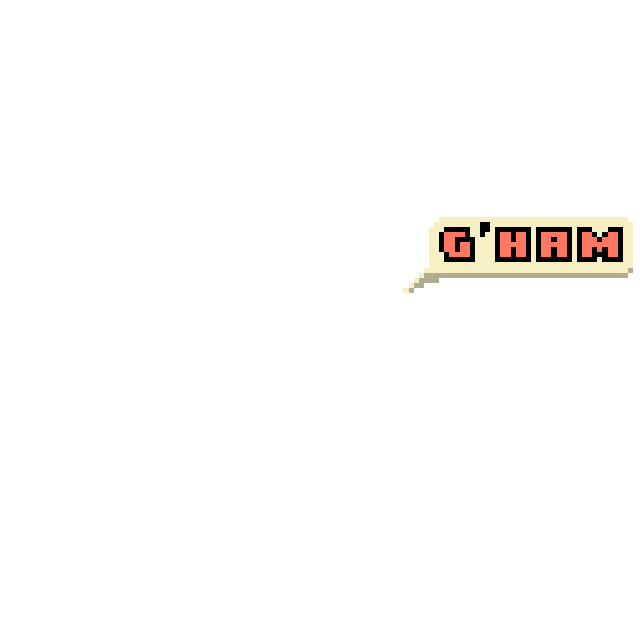
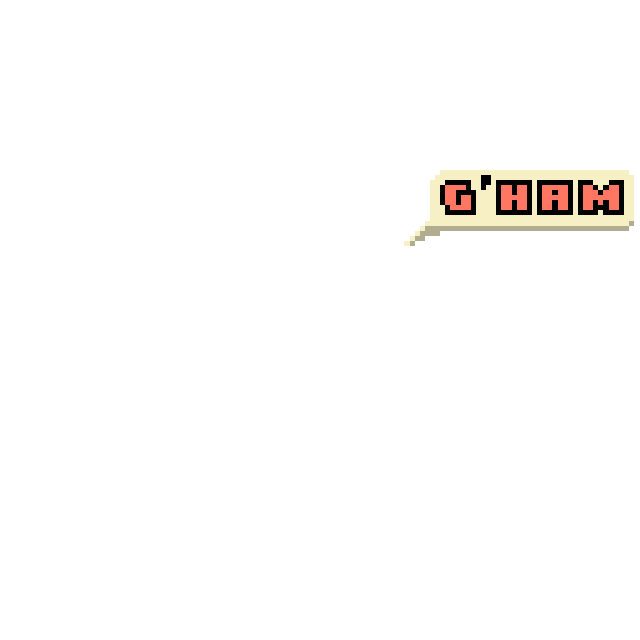
add gm

Changed region(s): [[0.625, 0.25, 1.0, 0.4688]]

diff --git a/app/drip/page.tsx b/app/drip/page.tsx
@@ -23,6 +23,7 @@ export default function DripNftViewer() {
   const [error, setError] = useState('')
   const [imageUrl, setImageUrl] = useState('')
   const [useHamHat, setUseHamHat] = useState(false)
+  const [useGham, setUseGham] = useState(false)
   const canvasRef = useRef<HTMLCanvasElement>(null)
   const [selectedBackground, setSelectedBackground] = useState('Green');
 
@@ -60,7 +61,7 @@ export default function DripNftViewer() {
     if (Object.keys(traits).length > 0) {
       generateImage()
     }
-  }, [traits, useHamHat, selectedBackground])
+  }, [traits, useHamHat, useGham, selectedBackground])
 
   const generateImage = async () => {
     const canvas = canvasRef.current
@@ -97,6 +98,11 @@ export default function DripNftViewer() {
       await drawImage(ctx, '/traits/Hat/Ham hat.png')
     }
 
+    // Add the G'ham layer if useGham is true
+    if (useGham) {
+      await drawImage(ctx, '/traits/top/gham.png')
+    }
+
     // Convert canvas to image URL
     const imageUrl = canvas.toDataURL('image/png')
     setImageUrl(imageUrl)
@@ -116,6 +122,10 @@ export default function DripNftViewer() {
 
   const toggleHamHat = () => {
     setUseHamHat(!useHamHat)
+  }
+
+  const toggleGham = () => {
+    setUseGham(!useGham)
   }
 
   const downloadPng = () => {
@@ -279,6 +289,12 @@ export default function DripNftViewer() {
                   onClick={toggleHamHat}
                 >
                   {useHamHat ? 'Remove Ham Hat' : 'Add Ham Hat'}
+                </Button>
+                <Button 
+                  className="bg-violet-600 hover:bg-violet-500 text-white neon-border rounded"
+                  onClick={toggleGham}
+                >
+                  {useGham ? 'Remove G\'ham' : 'Add G\'ham'}
                 </Button>
                 <Button 
                   className="bg-green-600 hover:bg-green-500 text-white neon-border rounded"
